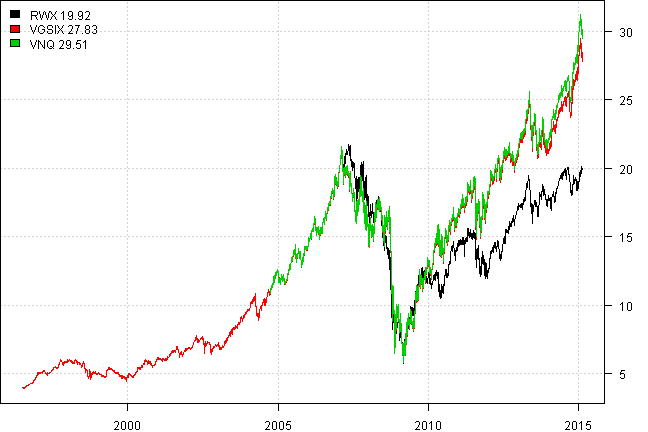
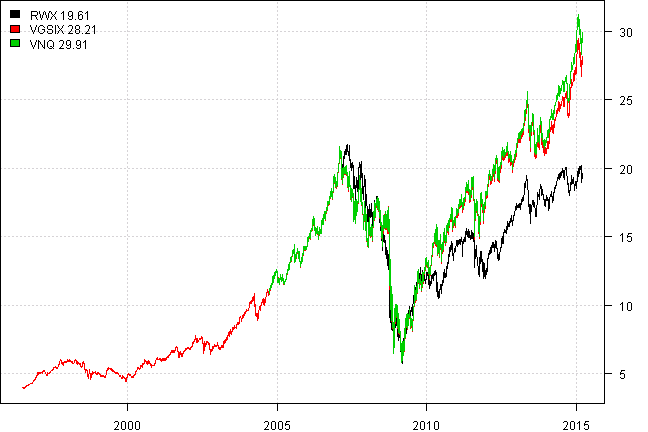
update blog post

diff --git a/_posts/2014-11-14-Data-Proxy.md b/_posts/2014-11-14-Data-Proxy.md
@@ -131,7 +131,7 @@ On the all history chart CRB_2 is also different.
 
 |      |CRB Price |CRB Total |CRB_2 Price |CRB_2 Total |DBC Price |DBC Total |GSG Price |GSG Total |
 |:-----|:---------|:---------|:-----------|:-----------|:---------|:---------|:---------|:---------|
-|Mean  | 8.2%     | 8.2%     |11.5%       |11.5%       |-0.4%     |-0.4%     |-6.9%     |-6.9%     |
+|Mean  | 8.2%     | 8.2%     |11.5%       |11.5%       |-0.8%     |-0.8%     |-7.5%     |-7.5%     |
 |StDev |16.3%     |16.3%     |21.5%       |21.5%       |20.9%     |20.9%     |25.0%     |25.0%     |
     
 
@@ -212,8 +212,8 @@ create.proxy = function(tickers, proxy.map.tickers, raw.data = new.env()) {
 |RWX   |      |66%   |67%   |
 |VGSIX |      |      |99%   |
 |      |      |      |      |
-|Mean  | 3.5% |12.6% |12.8% |
-|StDev |25.5% |40.4% |39.2% |
+|Mean  | 3.3% |12.6% |12.9% |
+|StDev |25.4% |40.2% |39.1% |
     
 
 
@@ -221,8 +221,8 @@ create.proxy = function(tickers, proxy.map.tickers, raw.data = new.env()) {
 
 |      |RWX Price |RWX Total |VGSIX Price |VGSIX Total |VNQ Price |VNQ Total |
 |:-----|:---------|:---------|:-----------|:-----------|:---------|:---------|
-|Mean  | 3.5%     | 3.5%     |14.4%       |14.4%       |15.8%     |15.8%     |
-|StDev |25.5%     |25.5%     |28.2%       |28.2%       |35.1%     |35.1%     |
+|Mean  | 3.3%     | 3.3%     |14.4%       |14.4%       |15.9%     |15.9%     |
+|StDev |25.4%     |25.4%     |28.1%       |28.1%       |35.1%     |35.1%     |
     
 
 
@@ -263,8 +263,8 @@ Please use `VNQ` and `VGSIX` to extend REIT ex-U.S.
 |IYR   |      |85%   |99%   |
 |RWO   |      |      |85%   |
 |      |      |      |      |
-|Mean  |14.3% | 9.0% |16.2% |
-|StDev |39.1% |29.9% |42.0% |
+|Mean  |14.3% | 8.9% |16.2% |
+|StDev |38.9% |29.8% |41.8% |
     
 
 
@@ -272,8 +272,8 @@ Please use `VNQ` and `VGSIX` to extend REIT ex-U.S.
 
 |      |IYR Price |IYR Total |RWO Price |RWO Total |VGSIX Price |VGSIX Total |
 |:-----|:---------|:---------|:---------|:---------|:-----------|:-----------|
-|Mean  |14.5%     |14.5%     | 9.0%     | 9.0%     |14.4%       |14.4%       |
-|StDev |29.6%     |29.6%     |29.9%     |29.9%     |28.2%       |28.2%       |
+|Mean  |14.5%     |14.5%     | 8.9%     | 8.9%     |14.4%       |14.4%       |
+|StDev |29.6%     |29.6%     |29.8%     |29.8%     |28.1%       |28.1%       |
     
 
 
@@ -430,7 +430,7 @@ Please use `IYR` and `VGSIX` to extend Global REIT.
 
 |      |IEF Price |IEF Total |TB10Y Price |TB10Y Total |VFITX Price |VFITX Total |
 |:-----|:---------|:---------|:-----------|:-----------|:-----------|:-----------|
-|Mean  |5.9%      |5.9%      |6.8%        |6.8%        |5.8%        |5.8%        |
+|Mean  |6.0%      |6.0%      |6.8%        |6.8%        |5.9%        |5.9%        |
 |StDev |7.0%      |7.0%      |9.6%        |9.6%        |5.2%        |5.2%        |
     
 
@@ -577,7 +577,7 @@ Please use `IYR` and `VGSIX` to extend Global REIT.
 
 |      |TB20Y Price |TB20Y Total |TLT Price |TLT Total |VUSTX Price |VUSTX Total |
 |:-----|:-----------|:-----------|:---------|:---------|:-----------|:-----------|
-|Mean  |155.4%      |155.4%      |  8.5%    |  8.5%    |  8.2%      |  8.2%      |
+|Mean  |155.4%      |155.4%      |  8.8%    |  8.8%    |  8.4%      |  8.4%      |
 |StDev | 70.3%      | 70.3%      | 13.8%    | 13.8%    | 10.5%      | 10.5%      |
     
 
@@ -637,7 +637,7 @@ are most likely month-end observations, but they are recorded as the first day o
 
 |      |GLD Price |GLD Total |GOLD Price |GOLD Total |
 |:-----|:---------|:---------|:----------|:----------|
-|Mean  |11.5%     |11.5%     | 9.4%      | 9.4%      |
+|Mean  |11.1%     |11.1%     | 9.4%      | 9.4%      |
 |StDev |20.3%     |20.3%     |20.1%      |20.1%      |
     
 
@@ -646,6 +646,26 @@ are most likely month-end observations, but they are recorded as the first day o
 </div>
 
 
+
+{% highlight r %}
+	#--------------------------------
+	# FTSE NAREIT U.S. Real Estate Index monthly total return series
+	# http://returns.reit.com/returns/MonthlyHistoricalReturns.xls
+	# https://r-forge.r-project.org/scm/viewvc.php/pkg/FinancialInstrument/inst/parser/download.NAREIT.R?view=markup&root=blotter
+	filename = 'data/NAREIT.xls'
+	if(!file.exists(filename)) {
+		url = 'http://returns.reit.com/returns/MonthlyHistoricalReturns.xls'
+		download.file(url, filename,  mode = 'wb')
+	}
+	
+	load.packages('gdata')
+	temp = read.xls(filename, pattern='Date', sheet='Index Data', stringsAsFactors=FALSE)
+	index = as.numeric(gsub(',','',temp$Index))
+	# monthly data, with 1-month-year format
+	NAREIT = make.xts(index, as.Date(paste(1,temp$Date),'%d %b-%y')) 
+	raw.data$NAREIT = make.stock.xts(NAREIT)
+	#--------------------------------
+{% endhighlight %}
 
 
 
@@ -761,4 +781,4 @@ print(bt.start.dates(data))
 
 
 
-*(this report was produced on: 2015-02-20)*
+*(this report was produced on: 2015-03-19)*
